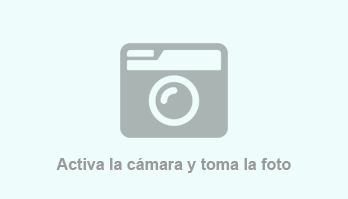
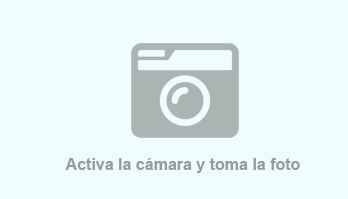
regr
rhgrt

diff --git a/camarafr.html b/camarafr.html
@@ -11,7 +11,7 @@
   <body><div class="container">
   
   	<div class="pictures">
-      <p><img id="originalPicture" height="110"/></p>
+      <p><img id="originalPicture" height="200"/></p>
     </div>
     
     <div class="controls">
